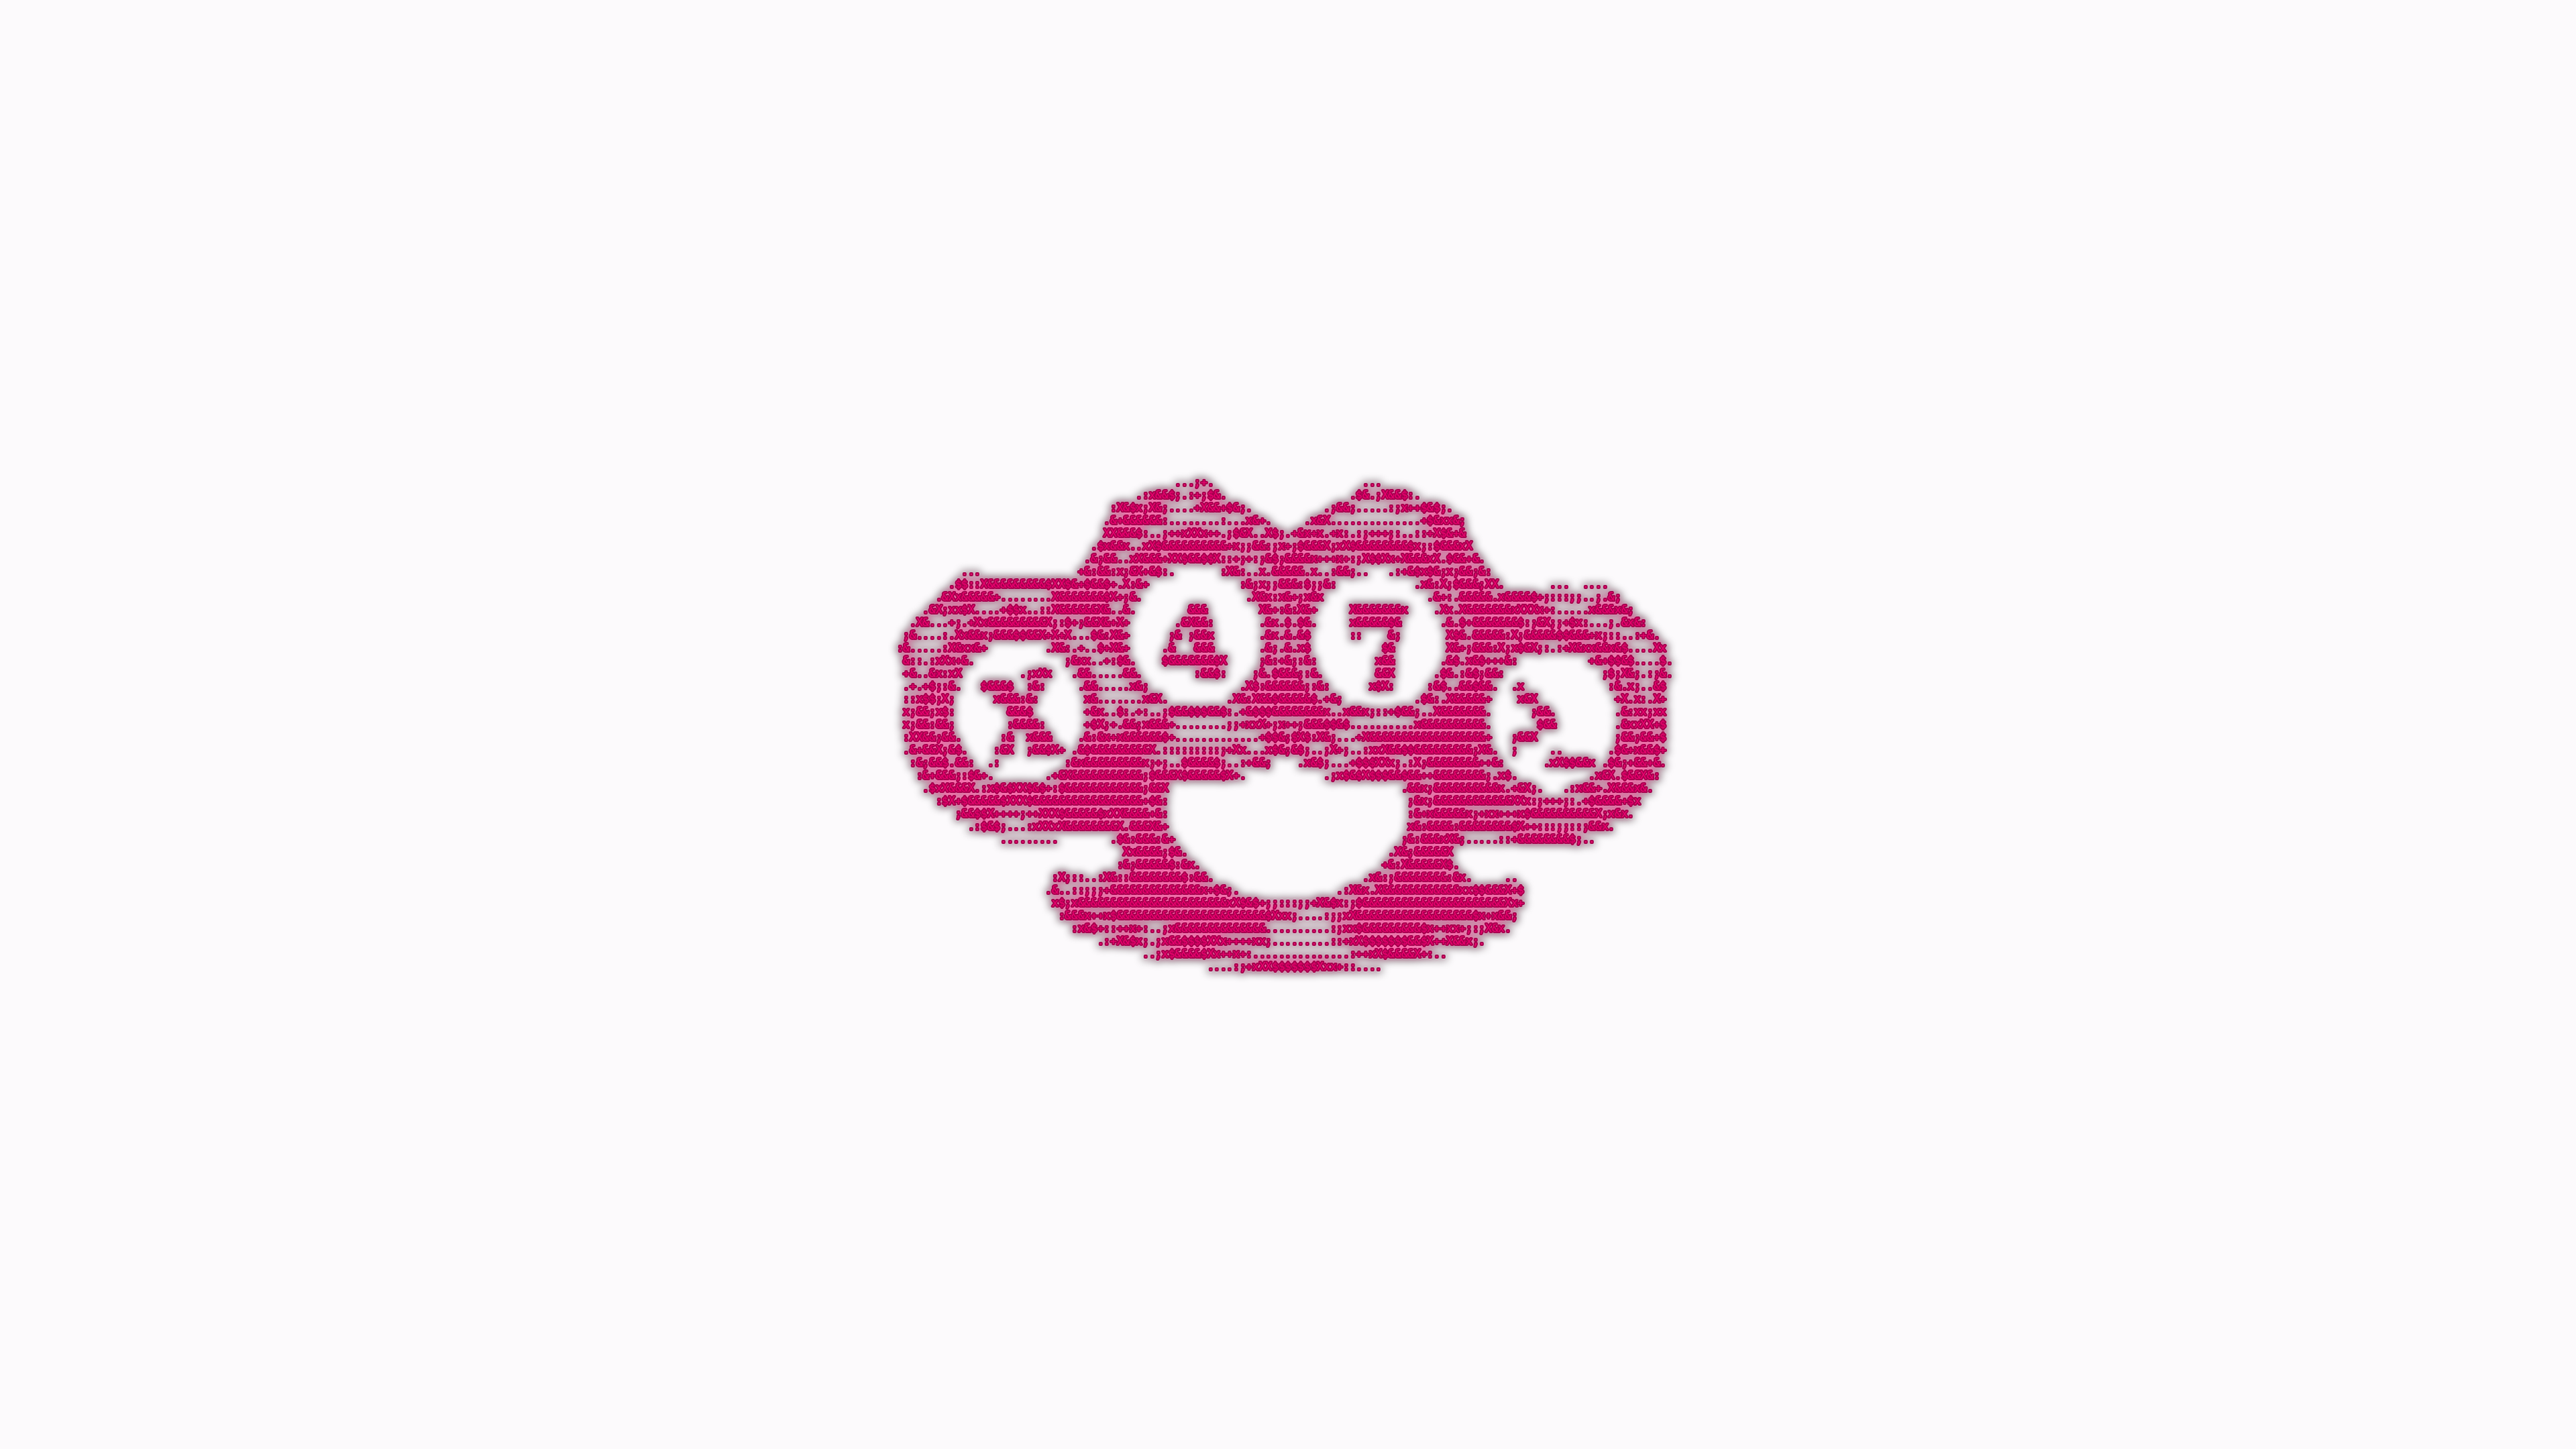
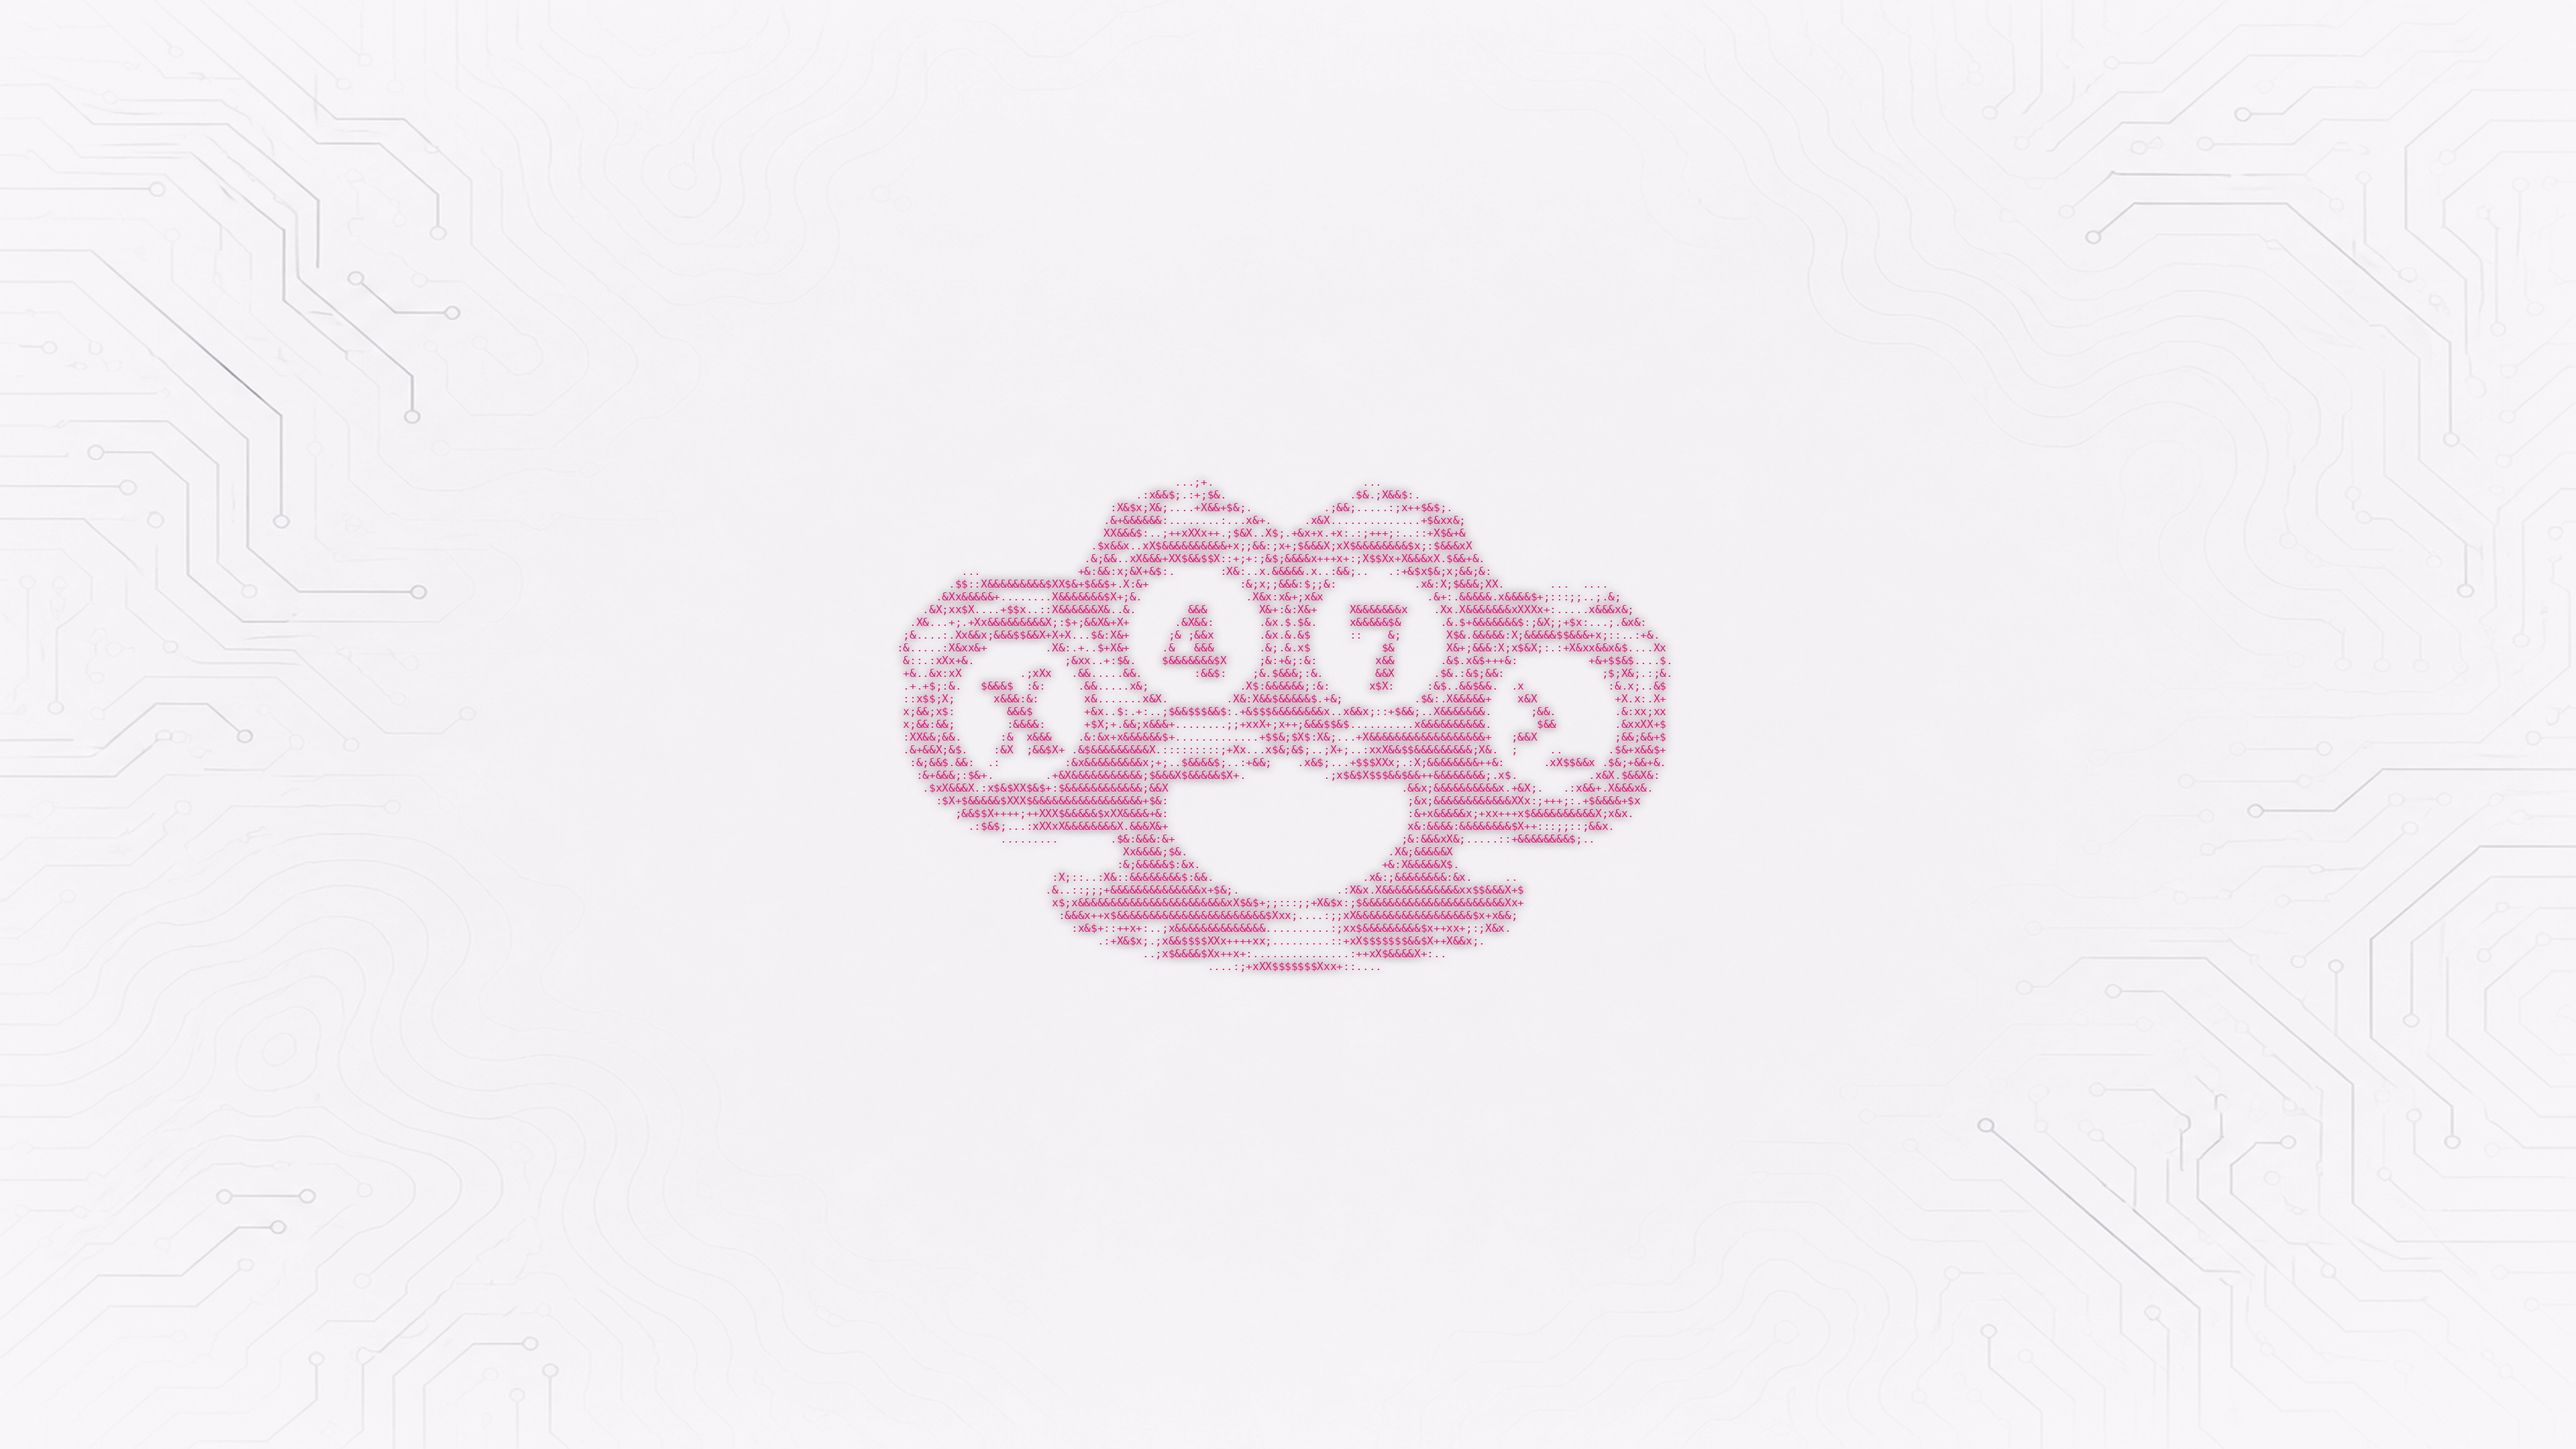
recolour workspace wallpapers, keep the circuit pattern + crisp duster

Changed region(s): [[0.3438, 0.3102, 0.6562, 0.6824]]

diff --git a/assets/extensions/x47-ws-walls@x47/extension.js b/assets/extensions/x47-ws-walls@x47/extension.js
@@ -8,9 +8,9 @@ import {Extension} from 'resource:///org/gnome/shell/extensions/extension.js';
 
 const FILES = [
     'x47-circuit.png',         // workspace 1 — teal
-    'x47-circuit-pink.png',    // workspace 2 — pink on white
-    'x47-circuit-blue.png',    // workspace 3 — white on light blue
-    'x47-circuit-lime.png',    // workspace 4 — white on lime
+    'x47-circuit-pink.png',    // workspace 2 — pink duster, white circuit
+    'x47-circuit-blue.png',    // workspace 3 — dark red duster, baby blue circuit
+    'x47-circuit-green.png',   // workspace 4 — white duster, dark green circuit
 ];
 
 export default class X47WsWallsExtension extends Extension {

diff --git a/scripts/make-wallpaper.py b/scripts/make-wallpaper.py
@@ -2,9 +2,9 @@
 """Render the X47 knuckle-duster ASCII art onto the circuit wallpaper.
 
 By default writes the teal (workspace 1) wallpaper. Pass --all to also write
-the pink / blue / lime variants for workspaces 2–4 (used by the desktop-cube
-workspace wallpaper switcher). Those three use loud solid backgrounds so each
-workspace is unmistakable at a glance.
+the pink / blue / green variants for workspaces 2–4 (used by the desktop-cube
+workspace wallpaper switcher). All four share the exact same circuit pattern
+and crisp ASCII duster; only the colours differ.
 
 Usage:
   scripts/make-wallpaper.py               # teal only
@@ -17,7 +17,7 @@ import argparse
 import sys
 from pathlib import Path
 
-from PIL import Image, ImageDraw, ImageFont, ImageFilter
+from PIL import Image, ImageDraw, ImageFont, ImageFilter, ImageOps
 
 ROOT = Path(__file__).resolve().parent.parent
 ASCII_FILE = ROOT / "assets/desktop/x47-ascii.txt"
@@ -29,31 +29,32 @@ ART_WIDTH_FRAC = 0.315
 FONT_PATH = "/usr/share/fonts/truetype/dejavu/DejaVuSansMono.ttf"
 
 # glow RGB (soft halo behind the art), sharp RGB (the art itself).
-# "bg" = solid background colour; without it the circuit image is used.
+# "recolor" = (shadow RGB, trace RGB): the circuit background is converted to
+# grayscale and remapped onto that ramp, keeping the exact same pattern.
+# Without "recolor" the original dark circuit image is used untouched.
 COLOURS = {
-    "teal": {
+    "teal": {  # workspace 1 — teal duster on the original dark circuit
         "glow": (64, 224, 208),
         "sharp": (214, 246, 242),
         "out": "x47-circuit.png",
     },
-    "pink": {  # workspace 2 — hot pink duster on white
-        "glow": (255, 100, 170),
-        "sharp": (235, 0, 110),
+    "pink": {  # workspace 2 — pink duster on white circuit
+        "glow": (255, 90, 160),
+        "sharp": (230, 20, 120),
         "out": "x47-circuit-pink.png",
-        "bg": (252, 250, 252),
-        "stroke": (170, 0, 80),
+        "recolor": ((250, 248, 250), (150, 145, 158)),
     },
-    "blue": {  # workspace 3 — white duster on light blue
-        "glow": (255, 255, 255),
-        "sharp": (255, 255, 255),
+    "blue": {  # workspace 3 — dark red duster on bright baby blue circuit
+        "glow": (200, 30, 40),
+        "sharp": (140, 10, 25),
         "out": "x47-circuit-blue.png",
-        "bg": (95, 190, 255),
+        "recolor": ((110, 195, 255), (225, 245, 255)),
     },
-    "lime": {  # workspace 4 — white duster on lime green
-        "glow": (255, 255, 255),
+    "green": {  # workspace 4 — white duster on medium-dark green circuit
+        "glow": (225, 255, 235),
         "sharp": (255, 255, 255),
-        "out": "x47-circuit-lime.png",
-        "bg": (105, 220, 40),
+        "out": "x47-circuit-green.png",
+        "recolor": ((20, 95, 45), (115, 205, 135)),
     },
 }
 
@@ -77,12 +78,15 @@ def fit_font(cols: int):
 
 
 def background(spec):
-    if "bg" in spec:
-        return Image.new("RGB", (W, H), spec["bg"])
-    return Image.open(BG).convert("RGB").resize((W, H), Image.LANCZOS)
+    img = Image.open(BG).convert("RGB").resize((W, H), Image.LANCZOS)
+    if "recolor" not in spec:
+        return img
+    shadow, trace = spec["recolor"]
+    gray = ImageOps.autocontrast(img.convert("L"))
+    return ImageOps.colorize(gray, black=shadow, white=trace)
 
 
-def draw_art(base, lines, font, glow_rgb, sharp_rgb, stroke_rgb=None):
+def draw_art(base, lines, font, glow_rgb, sharp_rgb):
     cw = font.getlength("M")
     ascent, descent = font.getmetrics()
     lh = ascent + descent
@@ -94,17 +98,13 @@ def draw_art(base, lines, font, glow_rgb, sharp_rgb, stroke_rgb=None):
     glow = Image.new("RGBA", (W, H), (0, 0, 0, 0))
     gd = ImageDraw.Draw(glow)
     for i, ln in enumerate(lines):
-        gd.text((x0, y0 + i * lh), ln, font=font, fill=(*glow_rgb, 255),
-                stroke_width=3, stroke_fill=(*glow_rgb, 255))
+        gd.text((x0, y0 + i * lh), ln, font=font, fill=(*glow_rgb, 255))
     glow = glow.filter(ImageFilter.GaussianBlur(6))
 
     sharp = Image.new("RGBA", (W, H), (0, 0, 0, 0))
     sd = ImageDraw.Draw(sharp)
-    stroke_kw = {}
-    if stroke_rgb is not None:
-        stroke_kw = {"stroke_width": 2, "stroke_fill": (*stroke_rgb, 255)}
     for i, ln in enumerate(lines):
-        sd.text((x0, y0 + i * lh), ln, font=font, fill=(*sharp_rgb, 255), **stroke_kw)
+        sd.text((x0, y0 + i * lh), ln, font=font, fill=(*sharp_rgb, 255))
 
     out = base.convert("RGBA")
     out = Image.alpha_composite(out, glow)
@@ -120,7 +120,6 @@ def render(name: str, lines, font):
         font,
         spec["glow"],
         spec["sharp"],
-        spec.get("stroke"),
     )
     out = OUT_DIR / spec["out"]
     OUT_DIR.mkdir(parents=True, exist_ok=True)

diff --git a/README.md b/README.md
@@ -93,7 +93,7 @@ By default the installer tunes the GNOME desktop for the main user (opt out with
 - **Hover-only window controls** — minimize/maximize/close stay invisible until you hover the titlebar (GTK3 + GTK4 css + Firefox `userChrome.css`; pointer-events disabled while hidden so they cannot block app menus).
 - **Screenshot** — `Super+Shift+S` or `Print` (optional via X47 Settings / `--skip-win-screenshot`).
 - **WezTerm (PuTTY-style)** — left-drag select copies; right-click pastes; `Ctrl+C` / `Ctrl+V` (optional via X47 Settings / `--skip-putty-clipboard`).
-- **X47 wallpapers** — ASCII knuckle-duster, one look per desktop-cube workspace: **teal on dark, hot pink on white, white on light blue, white on lime** (switched by `x47-ws-walls@x47`). Reproducible with `scripts/make-wallpaper.py --all`.
+- **X47 wallpapers** — ASCII knuckle-duster on the same circuit pattern, one colourway per desktop-cube workspace: **teal on dark, pink on white, dark red on baby blue, white on green** (switched by `x47-ws-walls@x47`). Reproducible with `scripts/make-wallpaper.py --all`.
 - **Window animations** — open uses **TV Glitch**, close uses **Broken Glass** (split Burn My Windows profiles `x47-open.conf` / `x47-close.conf`).
 - **Linux CMD Helper widget** — a single sleek desktop card: type a question in plain English (e.g. "how do I install notepad++") and get back just the Ubuntu terminal command (Anthropic Claude Haiku); click to copy. It sits **above the desktop icons but under app windows**, **hides in fullscreen**, **snaps to a 16px grid**, and drags from its **title**. Position: `~/.config/x47-widgets/layout.json`.
 

diff --git a/CHANGELOG.md b/CHANGELOG.md
@@ -3,7 +3,7 @@
 ## v1.9.4 — 2026-08-05
 
 ### Desktop looks
-- **High-contrast workspace wallpapers** — the old dark green/red/purple variants were hard to tell apart. Now: WS1 teal on dark, WS2 hot pink on white, WS3 white duster on light blue, WS4 white duster on lime green.
+- **High-contrast workspace wallpapers** — same circuit pattern and crisp ASCII duster on every workspace, recoloured so you can tell them apart: WS1 teal on dark, WS2 pink duster on white, WS3 dark red duster on baby blue, WS4 white duster on medium-dark green.
 
 ## v1.9.3 — 2026-08-05
 
